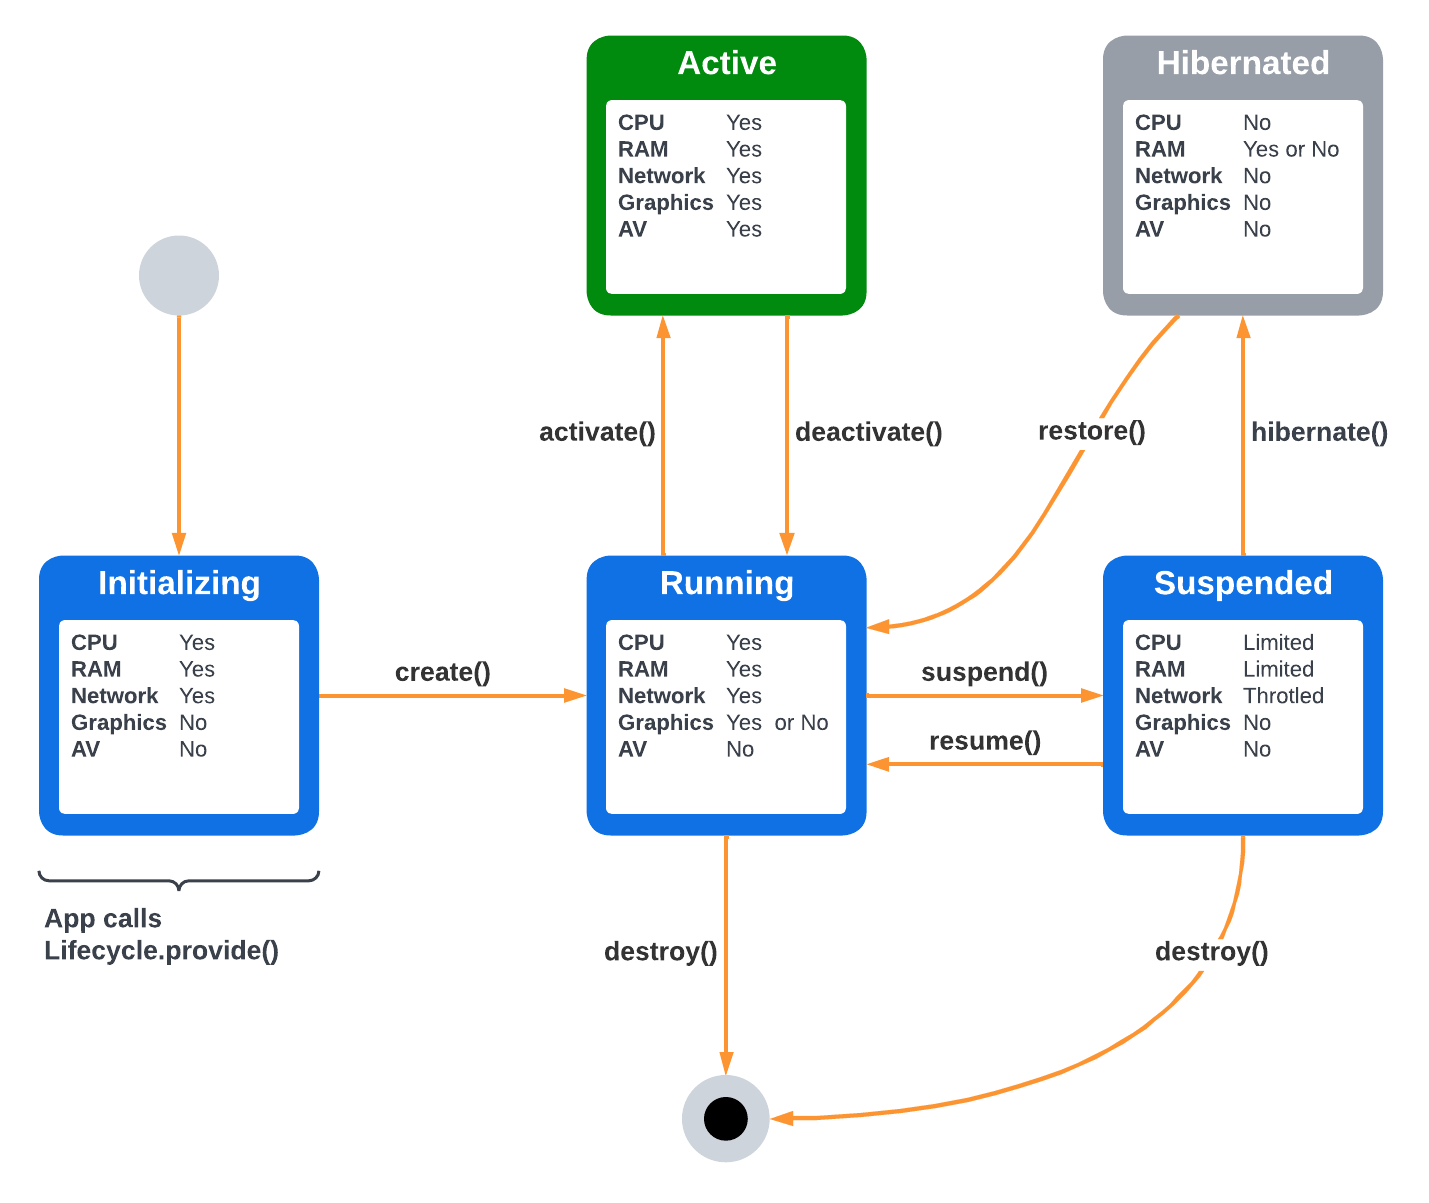
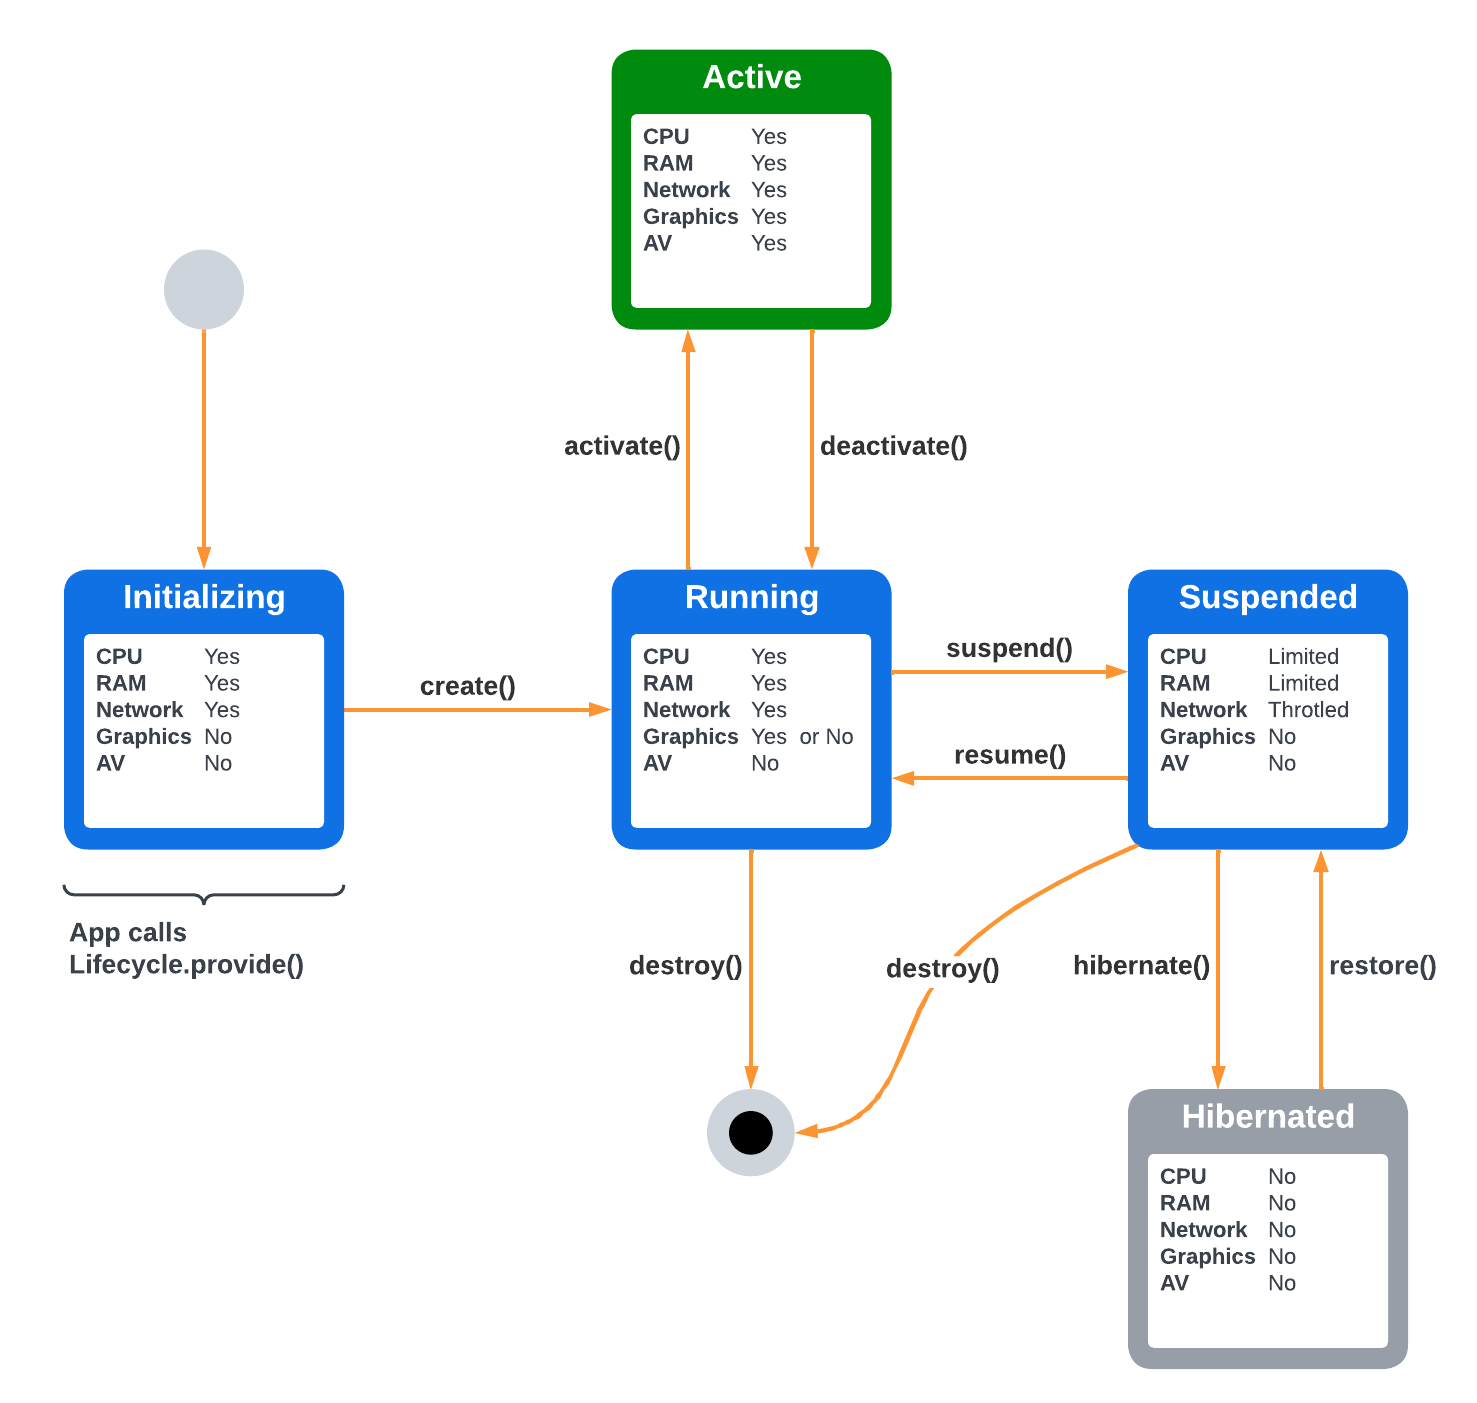
fix: Updates post-working group meeting

diff --git a/requirements/specifications/lifecycle/index.md b/requirements/specifications/lifecycle/index.md
@@ -226,7 +226,7 @@ Apps in this state **SHOULD** further reduce memory usage (more so than in the
 
 Apps **MUST** only enter this state from:
 
-  - the `HIBERNATED` state, via the `reconstruct()` method
+  - the `HIBERNATED` state, via the `restore()` method
   - the `RUNNING` state, via the `suspend()` method
 
 When an app transitions to this state, the platform **MUST** dispatch the 
@@ -320,7 +320,7 @@ transitions may be invoked.
 |           | CPU | RAM | Net | GFX | A/V | Description                                                                            |
 |-----------|-----|-----|-----|-----|-----|----------------------------------------------------------------------------------------|
 | `hibernate()` | ↓   | ↓   | ✔   |     |     | Prepare for an extended period with no CPU cycles given to app.                        |
-| `reconstruct()`  | ↓   | ↓   | ✔   |     |     | Cleanup after an extended period with no CPU, e.g. reset timers / network connections. |
+| `restore()`  | ↓   | ↓   | ✔   |     |     | Cleanup after an extended period with no CPU, e.g. reset timers / network connections. |
 
 
 All of these transition APIs are blocking, and each one has a 
@@ -668,7 +668,7 @@ from storage and relaunch the app in the original state.
 
 Firebolt apps that have permission to use the 
 `xrn:firebolt:capability:lifecycle:hibernation` capability **MUST** implement 
-`Hibernation.reconstruct()`. 
+`Hibernation.restore()`. 
 
 To restore an app from hibernation, platforms **MUST** use the following process. 
 
@@ -687,7 +687,7 @@ Hibernated apps **MUST** provide the
 **MUST** call the app's implementation of `Hibernation.restore()`.
 
 Once the platform receives a success, then the app may be moved 
-to the `RUNNING` state. Note the the app does not enter the `SUSPENDED` state.
+to the `SUSPENDED` state.
 
 If the app times out or throws an error, then the app **MUST** be 
 terminated. 
@@ -811,14 +811,14 @@ network connections and may also require additional thread safety checks.
 ```typescript
 interface Hibernation {
   function hibernate(): Promise<void>;
-  function reconstruct(): Promise<void>;
+  function restore(): Promise<void>;
 }
 
 ``` 
 | Method    | Description                                                                                                                                           |
 |-----------|-------------------------------------------------------------------------------------------------------------------------------------------------------|
 | `hibernate()` | Called when the platform is ready to move the app into the `HIBERNATED` state where it will no longer have access to the CPU.                           |
-| `reconstruct()`  | Called when the platform is ready to move the app out of the `HIBERNATED` state and into `RUNNING`. Network connections should be reestablished here. |
+| `restore()`  | Called when the platform is ready to move the app out of the `HIBERNATED` state and into `RUNNING`. Network connections should be reestablished here. |
 
 ### 7.4. Example App
 
@@ -924,4 +924,4 @@ The LifecyclePolicy fields are:
 | appSuspendTimeout    | bigint | Yes      | Number of milliseconds the platform should wait before terminating an app that did finish `suspend()`.                   |
 | appResumeTimeout     | bigint | Yes      | Number of milliseconds the platform should wait before terminating an app that did finish `resume()`.                    |
 | appHibernateTimeout  | bigint | Yes      | Number of milliseconds the platform should wait before terminating an app that did finish `hibernate()`.                     |
-| appRestoreTimeout       | bigint | Yes      | Number of milliseconds the platform should wait before terminating an app that did finish `reconstruct()`.                      |
+| appRestoreTimeout       | bigint | Yes      | Number of milliseconds the platform should wait before terminating an app that did finish `restore()`.                      |
